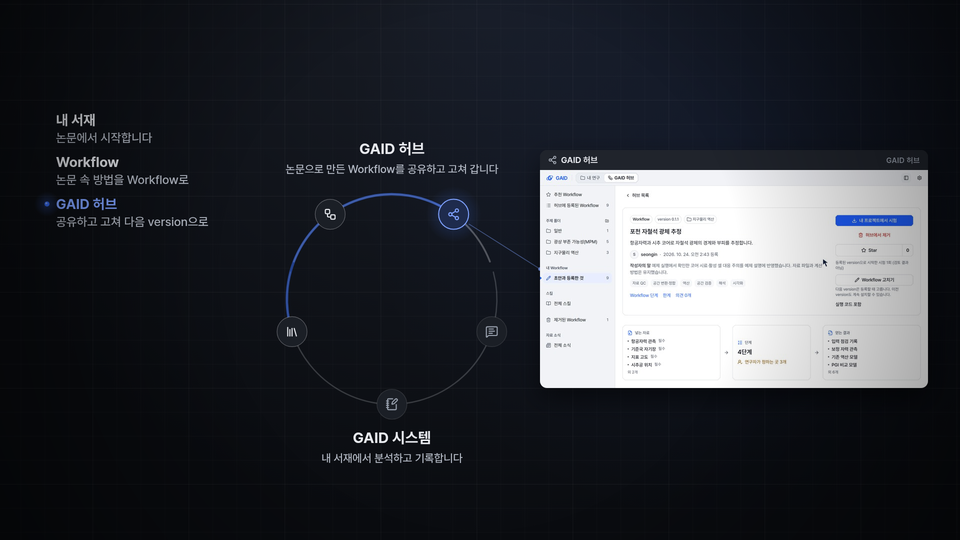
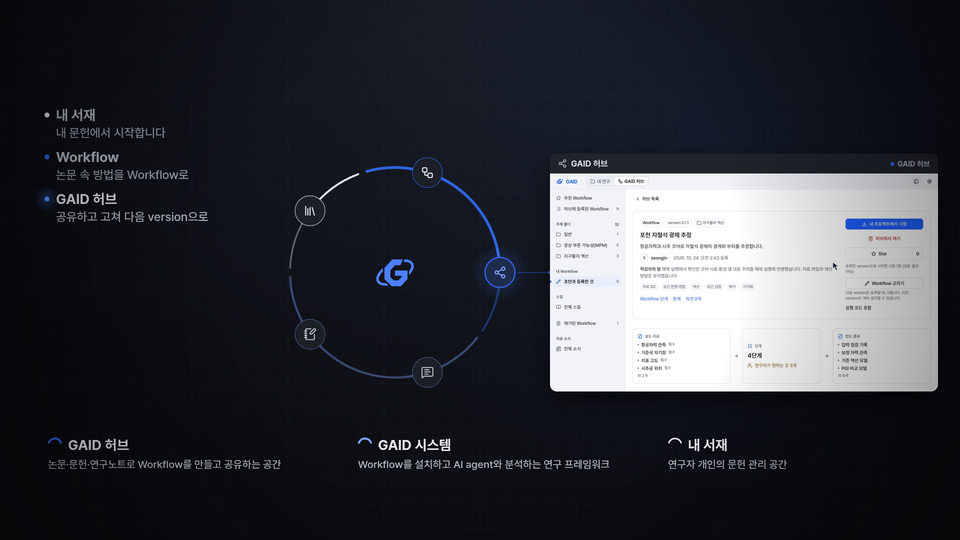
gaid-promo-video-v4-lemo--promo-40s: round 2 render recorded, section draft and figures updated

diff --git a/reports/2026-10-24-gaid-promo-video-v4-lemo/section-40s.md b/reports/2026-10-24-gaid-promo-video-v4-lemo/section-40s.md
@@ -11,7 +11,7 @@
 | 0–6초 | 자료 조사·문헌 분석·코드 작성 창이 점점 빠르게 쌓입니다. | 자료를 찾고, 논문을 읽고, 코드를 짭니다 |
 | 6–10초 | v4와 같은 실제 스킬·도구 이름 카드가 화면 가장자리로 흩어지고, 연구자에게서 뻗은 점선이 닿지 못합니다. | 스킬과 도구는 흩어져 있습니다 |
 | 10–15초 | 0.5초 동안 화면과 소리가 멈춘 뒤, 점이 파랗게 눌리면 카드가 GAID 창의 격자로 한 박자에 모입니다. | GAID가 한곳에 모읍니다 |
-| 15–30초 | 점이 연구 순환을 그립니다. 위쪽 호는 GAID 허브, 아래쪽 호는 GAID 시스템입니다. 내 서재 → Workflow → GAID 허브 → 연구 분석 → 연구노트 → 내 서재 순서로 역마다 실제 화면 창이 열립니다. | 역마다 한 줄(그림 2) |
+| 15–30초 | 점이 연구 순환을 그리고, 고리 가운데에 GAID 로고가 놓입니다. 고리는 GAID 허브(#3366e8), GAID 시스템(#7fa2ff), 내 서재(흰색) 구간으로 나뉩니다. 고리는 다이얼처럼 돌아, 지금 설명하는 역이 늘 오른쪽 창 바로 옆에 옵니다. 내 서재 → Workflow → GAID 허브 → 연구 분석 → 연구노트 → 내 서재 순서로 역마다 실제 화면 창이 열립니다. | 역마다 한 줄, 아래쪽에 세 구간 설명(그림 2) |
 | 30–35초 | 카메라가 물러나며 순환 하나가 여러 연구자의 순환이 되고, 서로 선으로 이어집니다. | 연구 고리가 모여 KIGAM Second brain이 됩니다 |
 | 35–42초 | 순환이 하나로 모여 GAID 로고의 궤도가 되고, 빛이 지나가며 로고가 드러납니다. | 지구과학 연구자를 위한 AI agent 연구 지원 플랫폼 / 내부 검토용 영상 |
 
@@ -21,7 +21,7 @@
 
 ![연구 순환과 GAID 허브 창](figures/40s-2-cycle.png)
 
-그림 2. 21.9초. 연구 순환의 GAID 허브 역입니다. 볼 것: 왼쪽 목록은 지나온 역이 쌓이고, 오른쪽 창은 허브에 등록된 Workflow와 version을 보여 주는 실제 화면입니다.
+그림 2. 21.9초. 연구 순환의 GAID 허브 역입니다. 볼 것: 지금 역이 창 바로 옆에 있어 연결선이 고리를 지나지 않습니다. 아래쪽 설명은 GAID 허브와 GAID 시스템을 한 플랫폼의 두 부분으로, 내 서재를 연구자 개인의 문헌 관리 공간으로 소개합니다. 오른쪽 창은 허브에 등록된 Workflow와 version을 보여 주는 실제 화면입니다.
 
 ![여러 연구자의 순환](figures/40s-3-brain.png)
 
@@ -35,26 +35,31 @@
 
 | 역 | 구분 | 촬영본 | 역 문구 |
 |---|---|---|---|
-| 내 서재 | GAID 시스템 | 포천 예제 L1 | 논문에서 시작합니다 |
+| 내 서재 | 개인 문헌 공간 | 포천 예제 L1 | 내 문헌에서 시작합니다 |
 | Workflow | GAID 허브 | 포천 예제 A3 | 논문 속 방법을 Workflow로 |
 | GAID 허브 | GAID 허브 | 포천 예제 H2 | 공유하고 고쳐 다음 version으로 |
-| 연구 분석 | GAID 시스템 | Yilgarn 예제 R2 | AI agent가 Workflow대로 분석 |
+| 연구 분석 | GAID 시스템 | Yilgarn 예제 R2 | 설치한 Workflow로 AI agent와 분석 |
 | 연구노트 | GAID 시스템 | Yilgarn 예제 N1 | 결과와 판단은 연구노트에 |
-| 내 서재 | GAID 시스템 | 포천 예제 L3 | 다시 내 서재로 |
+| 내 서재 | 개인 문헌 공간 | 포천 예제 L3 | 연구노트도 내 서재로 |
+
+2차 수정(2026-10-24 사용자 의견)에서 바꾼 것은 다음과 같습니다.
+- 역의 창 위치: 내 서재 역은 고리 왼쪽에 있는데 창은 오른쪽에 있어, 연결선이 고리를 가로질렀습니다. 이제 고리가 돌아 지금 역을 창 옆에 둡니다. 다섯 역 모두 연결선이 고리 밖의 짧은 선입니다.
+- 설명 문구: "GAID 시스템 — 내 서재에서 분석하고 기록합니다"를 없앴습니다. 대신 세 구간 설명을 넣었습니다(GAID 허브: 논문·문헌·연구노트로 Workflow를 만들고 공유하는 공간 / GAID 시스템: Workflow를 설치하고 AI agent와 분석하는 연구 프레임워크 / 내 서재: 연구자 개인의 문헌 관리 공간). 고리 가운데의 GAID 로고로 두 부분이 한 플랫폼임을 보여 줍니다.
+- 색: GAID 시스템을 회색에서 #7fa2ff로 바꿔, 두 부분이 모두 켜진 상태로 보이게 했습니다.
 
 ### 8.2 영상 파일과 확인한 것
 
 | 항목 | 값 |
 |---|---|
-| 영상 | `~/data/geoaidesk/runs/gaid-promo-video-v4-lemo--promo-40s-20261024T020340.602701Z/out/gaid-promo-40s.mp4` |
[1 lines of base64/hex data omitted]
+| 영상 | `~/data/geoaidesk/runs/gaid-promo-video-v4-lemo--promo-40s-20261024T051524.027365Z/out/gaid-promo-40s.mp4` |
[1 lines of base64/hex data omitted]
 | 길이 | 42.0초, 1260프레임, 1920×1080, 30fps |
 | 음량 | −14.1 LUFS(통합), LRA 7.5 LU, 실제 피크 −1.1 dBTP |
-| 렌더 기록 | job `job-geoaidesk-gaid-promo-video-v4-lemo--promo-40s-1`, receipt `~/data/geoaidesk/runs/gaid-promo-video-v4-lemo--promo-40s-20261024T020340.602701Z/receipt.json`, 소스 커밋 `bfbe423aa44c` |
+| 렌더 기록 | job `job-geoaidesk-gaid-promo-video-v4-lemo--promo-40s-2`, receipt `~/data/geoaidesk/runs/gaid-promo-video-v4-lemo--promo-40s-20261024T051524.027365Z/receipt.json`, 소스 커밋 `906fd451887c` |
 | 소스 | `geo/promo-lemo-40/` (연출안 TREATMENT.md, 장면 scene/, render.py, mix.py, master.py, 한 줄 재생성 build.sh) |
 
 - 빈 화면: 완성 파일에서 완전한 검은 화면은 없었습니다(blackdetect). 무대 위에 그린 요소가 거의 없는 프레임도 없었습니다(모든 프레임을 480×270으로 줄여 밝은 픽셀 비율을 셌습니다).
-- 읽기 시간: 화면 문구 44개를 lemo 기준(한글 ÷ 4.5 + 기타 문자 ÷ 15 + 1.5초)으로 쟀고, 짧은 문구는 없었습니다. 가장 빠듯한 문구는 끝 화면의 플랫폼 문장(필요 5.74초, 표시 5.84초)입니다. 창 제목처럼 왼쪽 목록과 같은 말을 되풀이하는 작은 표시는 재지 않았습니다.
+- 읽기 시간: 화면 문구 46개를 lemo 기준(한글 ÷ 4.5 + 기타 문자 ÷ 15 + 1.5초)으로 쟀고, 짧은 문구는 없었습니다. 가장 빠듯한 문구는 끝 화면의 플랫폼 문장(필요 5.74초, 표시 5.84초)입니다. 창 제목처럼 왼쪽 목록과 같은 말을 되풀이하는 작은 표시는 재지 않았습니다.
 - 검토 순서: 정지 화면 모음을 두 번 보고, 전체 미리보기에서 멈춤·모임·순환 시작·창 전환·끝 화면을 0.2초 간격 프레임으로 확인했습니다. 고친 것은 TREATMENT.md 11절에 있습니다. lemo 데모와 비교해 구조, 시작, 대표 장면, 끝 네 가지가 다릅니다(TREATMENT.md 10절).
 - 자동 검사: 이 영상 소스에는 자동 검사가 없습니다. 위 확인은 빌드 스크립트의 측정값과 제가 본 화면입니다.
 

diff --git a/docs/tasks/gaid-promo-video-v4-lemo--promo-40s.md b/docs/tasks/gaid-promo-video-v4-lemo--promo-40s.md
@@ -1,7 +1,7 @@
 ---
 format: 1
 status: active
-updated: 2026-10-24T05:15:26Z
+updated: 2026-10-24T05:18:47Z
[1 lines of base64/hex data omitted]
 branch: task/gaid-promo-video-v4-lemo--promo-40s
 target: task/gaid-promo-video-v4-lemo
@@ -84,10 +84,11 @@ Do not edit geo/promo/ or geo/promo-lemo/. No review app, no outside publication
 - Done. Sources in geo/promo-lemo-40/ (TREATMENT.md, scene/, render.py, mix.py, master.py, build.sh, README.md, CREDITS).
   Film: 42.0 s one-orbit structure (TREATMENT.md §2–6); real takes only inside six station windows (PGI L1/A3/H2/L3,
   Yilgarn R2/N1), per the user's 2026-10-24 message forwarded by the parent.
-- Final render: job job-geoaidesk-gaid-promo-video-v4-lemo--promo-40s-1 (source bfbe423), exit 0. Film
-  ~/data/geoaidesk/runs/gaid-promo-video-v4-lemo--promo-40s-20261024T020340.602701Z/out/gaid-promo-40s.mp4,
-  sha256 e390feba2bda353d6dbb5629c36905f26a47f097a6301a903e5fdc130da49bb0, 1260 frames, 42.0 s, 1920×1080 30 fps,
-  −14.1 LUFS, LRA 7.5 LU, TP −1.1 dBTP, no black or empty frames, reading check 44 texts / 0 short.
+- Final render (round 2): job job-geoaidesk-gaid-promo-video-v4-lemo--promo-40s-2 (source 906fd451), exit 0. Film
+  ~/data/geoaidesk/runs/gaid-promo-video-v4-lemo--promo-40s-20261024T051524.027365Z/out/gaid-promo-40s.mp4,
+  sha256 95701356eccfcf45c187a5aed83c17d30a701ccf407ced7bc8ab87fe3581ab05, 1260 frames, 42.0 s, 1920×1080 30 fps,
+  −14.1 LUFS, LRA 7.5 LU, TP −1.1 dBTP, no black or empty frames, reading check 46 texts / 0 short. Round 1 render
+  (job -1, sha256 e390feba…) is superseded.
 - Review loop: contact sheets prev1, prev2 and the final job's; 0.2 s strips on prev4 (work dir
   ~/data/geoaidesk/work/gaid-promo-video-v4-lemo--promo-40s/); fixes in TREATMENT.md §11. Sound checked only by
   measurement (loudness, band energy), not by listening.
@@ -95,10 +96,8 @@ Do not edit geo/promo/ or geo/promo-lemo/. No review app, no outside publication
   figures/40s-{1-scatter,2-cycle,3-brain,4-end}.png. Humanizer not run on it; the parent runs it before review-copy.
 - Checks: no automated checks for the film sources; scripts/check unchanged and not run.
 ## Next steps
-1. Round 2 (parent message 2026-10-24, user feedback on the cycle scene and on how GAID 허브/시스템/내 서재 are
-   described): dial ring + legend + copy/colours done in scene/film.js (TREATMENT.md §11). Re-render with a job, update
-   section-40s.md and figures, then task finish and check that origin/task/gaid-promo-video-v4-lemo--promo-40s moved
-   (the first finish commit a26b8bcd was never published).
+1. Parent: merge section-40s.md into its report §8 (now includes the round-2 changes), add the registry entry, run
+   humanizer before review-copy.
 
 ## Failed approaches
 ## Notes and decisions
